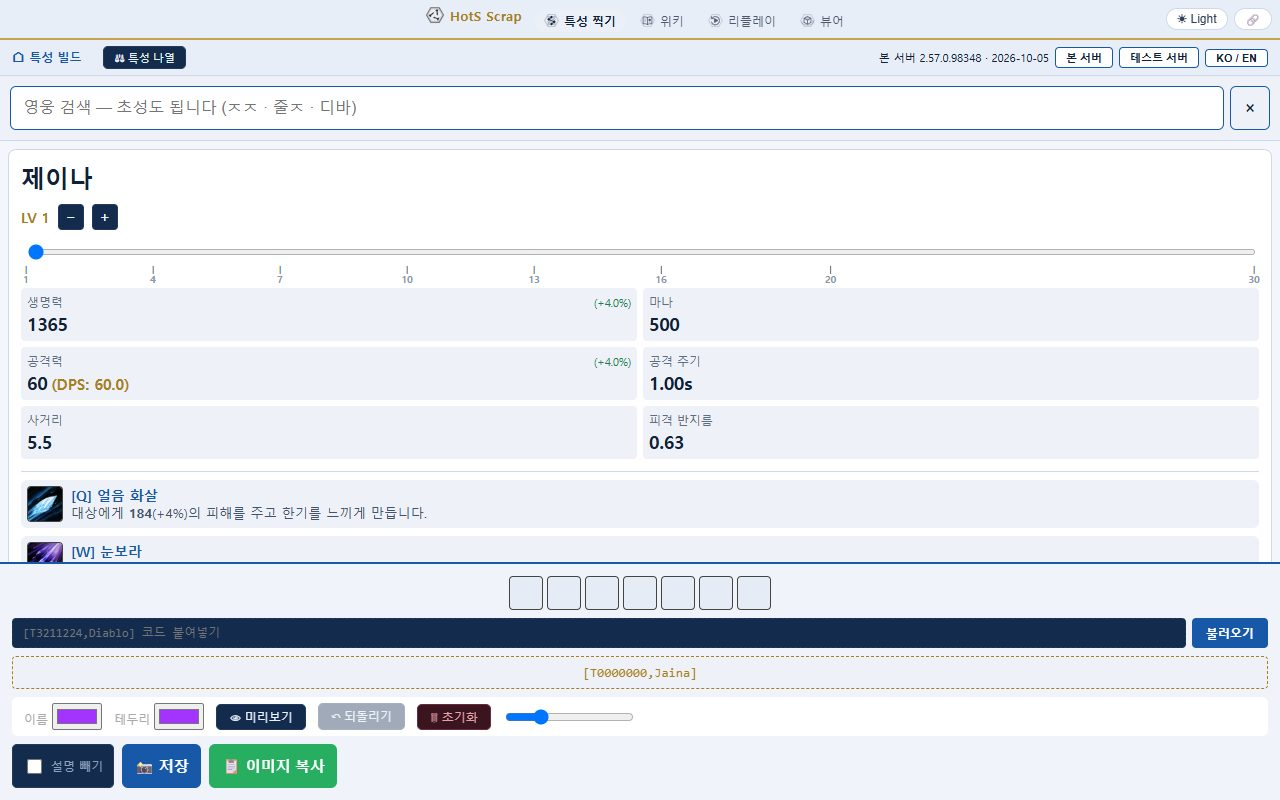
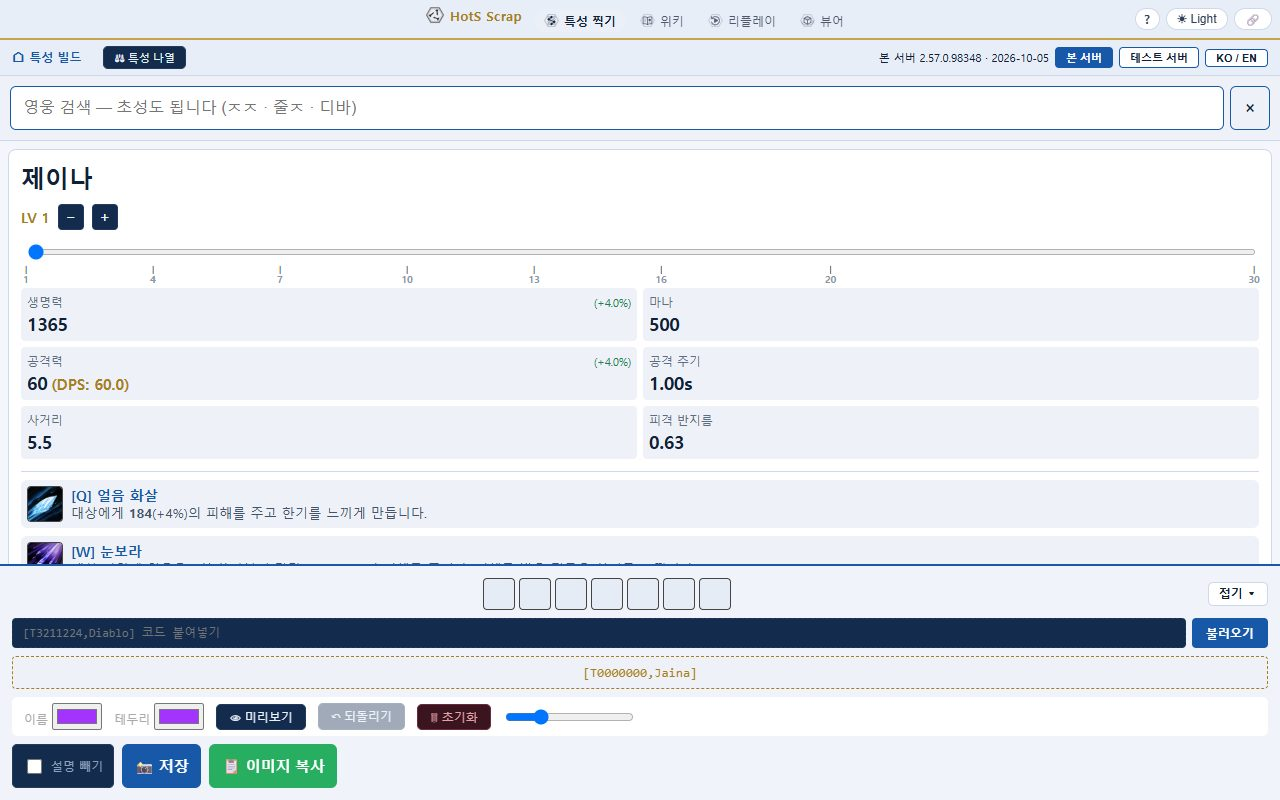
빌드: 폰에서 위·아래 칸 얇게 — 아래 칸 접기/펴기, 위 단추줄 한 줄, 전역 바 알약 작게
360×640 폰에서 특성 줄이 118px 만 보였다(글자 키운 폰은 0). 이제 434px.
- 아래 칸 접기/펴기: 접으면 고른 특성 줄 + ↶ 되돌리기 + 📸 저장만 남는다(254 → 58px).
  고른 상태는 builds.footerMin 에 기억, 고른 적이 없으면 화면 높이 30% 를 넘을 때 접힌 채 시작
- ← 뒤로가기 단추가 아래 칸 높이를 따라간다(전엔 '불러오기' 를 덮었다)
- 위 단추줄: 600px 이하에서 한 줄(137 → 49px), 판 번호 글은 숨기고 낡은 테스트 서버 경고만 남김
- 검색창 × 가 안 접히던 것(.search-row 의 display 가 hidden 을 이김) → 검색창·열기 단추가 같이 보이던 문제
- 밝은 테마에서 고른 서버 단추가 흰색이라 안 보이던 것
- 공통 전역 바(scrap.css): 손가락 기기에서 링크가 54px 세로 타원이던 것 → 누를 자리 44px 은 두고
  보이는 알약만 28px(::before). 바 66 → 50px, 12개 화면 가로 넘침 0
- 사용법 '특성 고르기' 에 접기/펴기 설명, 특성 찍기 사진 6장 다시 찍음

Changed region(s): [[0.0, 0.6875, 1.0, 0.75], [0.8125, 0.0625, 0.875, 0.0938]]

diff --git a/site/builds/index.html b/site/builds/index.html
@@ -205,18 +205,77 @@
 }
 /* 바닥 단추 줄이 통째로 넘치지 않게 — 가로로 미는 대신 줄을 바꾼다 */
 .btn-group { max-width:100%; }
+
+/* ── 아래 칸 접기/펴기 — 맨 윗줄만 남긴다 ── */
+#ft-top { display:flex; align-items:center; gap:6px; min-width:0; }
+#ft-top #selected-summary { flex:1; min-width:0; align-items:center; }
+/* 요약 칸은 자리가 모자라면 같이 줄어든다(접은 줄에 단추 셋이 같이 서야 해서). 32px 이 최대 */
+#selected-summary .summary-icon { flex:0 1 32px; min-width:0; width:auto; height:auto; max-width:32px; aspect-ratio:1/1; box-sizing:border-box; }
+#ft-mini { display:none; gap:6px; flex-shrink:0; }
+#footer.min #ft-mini { display:flex; }
+#footer.min > :not(#ft-top) { display:none !important; }   /* 코드 줄은 style 에 display:flex 가 박혀 있어 !important 가 있어야 숨는다 */
+#footer.min { padding-top:6px; padding-bottom:6px; overflow:visible; }
+#ft-toggle, .ft-mini-btn { flex-shrink:0; background:#132b4d; border:1px solid #233a5c; color:#eaf1fa;
+  border-radius:5px; padding:4px 10px; font-size:12px; line-height:1.2; cursor:pointer; white-space:nowrap; }
+.ft-mini-btn { min-width:36px; padding:4px 8px; font-size:15px; }
+#ft-toggle { font-weight:bold; }
+:root[data-theme="light"] #ft-toggle, :root[data-theme="light"] .ft-mini-btn { background:#ffffff; border-color:#cdd9ea; color:#122036; }
+@media (any-pointer:coarse) {
+  #ft-toggle, .ft-mini-btn { min-height:44px; }
+}
+
+/* 검색창 접기 — .search-row 의 display:flex 가 hidden 속성을 이겨서 × 를 눌러도 안 접히고
+   '영웅 검색 열기' 단추만 하나 더 생겼다(둘이 같이 보였다) */
+.search-row[hidden], .search-show[hidden] { display:none !important; }
+
+/* 밝은 테마에서 고른 서버 단추가 안 보이던 것 — 밝은 .lang-btn(흰 바탕)이 .ch-btn.on 을 이겼다 */
+:root[data-theme="light"] #top-bar .ch-btn.on { background:#1758a8; border-color:#1758a8; color:#fff; }
+
+/* ── 폰: 위쪽을 얇게 ─────────────────────────────────────────────────
+   좁아질수록 위 단추줄이 3줄로 접혀(137px) 44px 상자가 줄줄이 튀어나왔다. 한 줄로 모은다.
+   - 판 번호·날짜 글은 단추의 title 에 이미 있어 숨긴다(테스트 서버 자료가 낡았다는 경고만 남긴다)
+   - '특성 나열' → '나열', '테스트 서버' → '테스트'
+   - 손가락 기기: 단추 자체는 44px 로 두고 **보이는 알약만 작게** 그린다(::before).
+     알약이 단추 안쪽에 있으니 이웃 단추를 덮지 않는다(::after 띠로 넓히다 생긴 사고와 반대 방향). */
+@media (max-width:600px) {
+  #top-bar { flex-wrap:nowrap; padding:2px 8px; gap:6px; }
+  #top-bar .tb-left { gap:4px !important; flex-shrink:0; }
+  #top-bar .tb-right { flex-wrap:nowrap !important; gap:4px !important; min-width:0; }
+  #top-bar .tb-right:has(#ch-note.stale) { flex-wrap:wrap !important; }
+  #top-bar .tb-list { margin-left:0 !important; }
+  #top-bar .tb-lg { display:none; }
+  #ch-note:not(.stale) { display:none; }
+  #ch-note.stale { flex-basis:100%; order:9; text-align:right; font-size:10px !important; white-space:normal !important; }
+  #top-bar .lang-btn, #top-bar .tb-list { font-size:11px !important; padding:3px 9px !important; }
+  #top-bar .lang-btn { border-color:#233a5c; }
+  /* 검색창도 한 호흡 얇게(글자 16px 은 그대로 — 그보다 작으면 아이폰이 화면을 확대한다) */
+  #header { padding:6px 8px; }
+  .search-box { padding:8px 10px; }
+  .search-show { padding:5px; }
+}
+@media (max-width:600px) and (any-pointer:coarse) {
+  #top-bar .lang-btn, #top-bar .tb-list { --tb-bg:#132b4d; --tb-bd:#233a5c; position:relative; z-index:0;
+    min-height:44px; display:inline-flex; align-items:center; background:transparent !important; border-color:transparent !important; }
+  #top-bar .ch-btn.on { --tb-bg:#1758a8; --tb-bd:#1758a8; }
+  :root[data-theme="light"] #top-bar .lang-btn, :root[data-theme="light"] #top-bar .tb-list { --tb-bg:#ffffff; --tb-bd:#cdd9ea; }
+  :root[data-theme="light"] #top-bar .tb-list { color:#122036 !important; }
+  :root[data-theme="light"] #top-bar .ch-btn.on { --tb-bg:#1758a8; --tb-bd:#1758a8; }
+  #top-bar .lang-btn::before, #top-bar .tb-list::before { content:""; position:absolute; left:0; right:0; top:9px; bottom:9px;
+    z-index:-1; border-radius:5px; background:var(--tb-bg); border:1px solid var(--tb-bd); }
+  #top-bar .tb-home { min-height:44px; display:inline-flex; align-items:center; }
+}
 </style>
 </head>
 <body data-scrap-back-bottom="190px">
     <div id="top-bar">
-        <span style="display:flex; align-items:center; gap:12px;">
-          <a href="./" title="빌드 홈으로" style="font-weight:bold; color:var(--p); font-size:12px; text-decoration:none;">⌂ 특성 빌드</a>
-        <button type="button" onclick="openTierList()" style="margin-left:10px; background:#132b4d; border:1px solid #233a5c; color:#eaf1fa; border-radius:5px; padding:3px 10px; cursor:pointer; font-size:11px;">⚖ 특성 나열</button>
+        <span class="tb-left" style="display:flex; align-items:center; gap:12px;">
+          <a href="./" class="tb-home" title="빌드 홈으로" style="font-weight:bold; color:var(--p); font-size:12px; text-decoration:none;">⌂ 특성 빌드</a>
+        <button type="button" class="tb-list" onclick="openTierList()" style="margin-left:10px; background:#132b4d; border:1px solid #233a5c; color:#eaf1fa; border-radius:5px; padding:3px 10px; cursor:pointer; font-size:11px;">⚖ <span class="tb-lg">특성 </span>나열</button>
         </span>
-        <span style="display:flex; align-items:center; gap:6px; flex-wrap:wrap; justify-content:flex-end;">
+        <span class="tb-right" style="display:flex; align-items:center; gap:6px; flex-wrap:wrap; justify-content:flex-end;">
           <span id="ch-note" style="font-size:11px; color:#8fa2bd;"></span>
           <button type="button" class="lang-btn ch-btn" id="ch-live" onclick="setChannel('live')" hidden>본 서버</button>
-          <button type="button" class="lang-btn ch-btn" id="ch-ptr" onclick="setChannel('ptr')" hidden>테스트 서버</button>
+          <button type="button" class="lang-btn ch-btn" id="ch-ptr" onclick="setChannel('ptr')" hidden>테스트<span class="tb-lg"> 서버</span></button>
           <button class="lang-btn" onclick="toggleLanguage()">KO / EN</button>
         </span>
     </div>
@@ -262,7 +321,15 @@
         <div id="main-content"></div>
     </div>
     <div id="footer">
-        <div id="selected-summary"></div>
+        <!-- 맨 윗줄은 접어도 남는다 — 고른 특성 요약 + (접혔을 때만) 되돌리기·저장 + 접기 단추 -->
+        <div id="ft-top">
+            <div id="selected-summary"></div>
+            <span id="ft-mini">
+                <button type="button" id="undo-mini" class="ft-mini-btn" onclick="undoTalent()" aria-label="되돌리기" title="되돌릴 것이 없습니다" disabled style="opacity:.4;">↶</button>
+                <button type="button" class="ft-mini-btn" onclick="takeScreenshot('save')" aria-label="이미지로 저장" title="이미지로 저장">📸</button>
+            </span>
+            <button type="button" id="ft-toggle" onclick="footerToggle()" aria-controls="footer" aria-expanded="true" title="아래 칸 접기 — 특성 목록을 넓게 봅니다">접기 ▾</button>
+        </div>
         <div style="display:flex; gap:6px;">
             <input type="text" id="code-load-input" placeholder="[T3211224,Diablo] 코드 붙여넣기"
                    title="게임 안에서 복사한 특성 코드입니다 — 특성 화면의 '빌드 복사' 로 얻은 [T…,영웅] 글을 그대로 붙여넣으면 그 빌드가 찍힙니다" style="flex:1; background:#132b4d; border:1px dashed #233a5c; color:#eaf1fa; border-radius:4px; padding:7px 10px; font-family:monospace; font-size:12px; outline:none;">
@@ -297,6 +364,52 @@
             <button class="footer-btn" style="background:#27ae60;" onclick="takeScreenshot('copy')">📋 이미지 복사</button>
         </div>
     </div>
+    <script>
+        /* ── 아래 칸 접기/펴기 ─────────────────────────────────────────────
+           폰에서는 아래 칸이 화면 절반(글자를 키운 폰은 그 이상)을 먹어 특성 줄이 안 보였다.
+           접으면 맨 윗줄(고른 특성 요약 · 되돌리기 · 저장)만 남는다.
+           - 한 번 고른 상태는 이 브라우저에 기억한다(builds.footerMin).
+           - 고른 적이 없으면 **아래 칸이 화면 높이의 30% 를 넘을 때** 접힌 채로 시작한다
+             (폰 세로·가로는 접힘, PC·태블릿은 펼침). 고르기 전에는 화면을 돌리면 다시 판단한다.
+           - 오른쪽 아래 ← 단추는 아래 칸 바로 위에 붙어 다닌다(높이가 바뀔 때마다 따라간다). */
+        (function () {
+            var KEY = 'builds.footerMin';
+            var ft = document.getElementById('footer'), tg = document.getElementById('ft-toggle');
+            function saved() { try { return localStorage.getItem(KEY); } catch (e) { return null; } }
+            function syncBack() {
+                var px = (ft.offsetHeight + 10) + 'px';
+                document.body.setAttribute('data-scrap-back-bottom', px);   // 밝기를 바꿔 다시 그릴 때도 이 값을 쓴다
+                var bk = document.getElementById('scrap-back');
+                if (bk) bk.style.bottom = px;
+            }
+            function apply(min) {
+                ft.classList.toggle('min', min);
+                tg.textContent = min ? '펴기 ▴' : '접기 ▾';
+                tg.title = min ? '아래 칸 펴기 — 코드·색·저장 옵션' : '아래 칸 접기 — 특성 목록을 넓게 봅니다';
+                tg.setAttribute('aria-expanded', min ? 'false' : 'true');
+                syncBack();   // 크기 감시(ResizeObserver)는 다음 그리기 때 돌아 늦을 수 있어 바로 맞춘다
+            }
+            function autoMin() {
+                ft.classList.remove('min');
+                return ft.offsetHeight > innerHeight * 0.3;
+            }
+            window.footerToggle = function () {
+                var min = !ft.classList.contains('min');
+                apply(min);
+                try { localStorage.setItem(KEY, min ? '1' : '0'); } catch (e) {}
+            };
+            var s = saved();
+            apply(s === null ? autoMin() : s === '1');
+            var rz = 0;
+            addEventListener('resize', function () {
+                if (saved() !== null) return;
+                cancelAnimationFrame(rz);
+                rz = requestAnimationFrame(function () { apply(autoMin()); });
+            });
+            if (window.ResizeObserver) new ResizeObserver(syncBack).observe(ft);
+            syncBack();
+        })();
+    </script>
     <script>
         /* 영웅 데이터는 파일로 따로 둔다(data/builds/). 한 번에 받는 양을 줄이려고
            고른 판(본 서버/테스트 서버)과 고른 언어 하나만 받는다. */
@@ -343,6 +456,7 @@
                 tag.textContent = CH_LABEL[currentChannel] + ' ' + m.version + ' · ' + m.date
                     + (stale ? ' (본 서버보다 오래된 빌드입니다. 새 테스트 서버 자료가 아직 없습니다)' : '');
                 tag.style.color = stale ? '#e8a13a' : '';
+                tag.classList.toggle('stale', stale);   // 폰에서는 판 번호 줄을 숨기지만 이 경고만은 보인다
             }
         }
 
@@ -560,14 +674,17 @@
             undoPaint();
         }
         function undoPaint() {
-            var b = document.getElementById('undo-btn');
-            if (!b) return;
             var n = undoStack.length;
-            b.disabled = !n;
-            b.style.opacity = n ? '1' : '.4';
-            b.style.cursor = n ? 'pointer' : 'default';
-            b.title = n ? ('바로 앞 상태로 되돌립니다 (남은 걸음 ' + n + ')')
-                        : '되돌릴 것이 없습니다';
+            // 되돌리기는 두 군데 — 펼친 아래 칸의 단추와, 접었을 때 남는 윗줄의 ↶
+            ['undo-btn', 'undo-mini'].forEach(function (id) {
+                var b = document.getElementById(id);
+                if (!b) return;
+                b.disabled = !n;
+                b.style.opacity = n ? '1' : '.4';
+                b.style.cursor = n ? 'pointer' : 'default';
+                b.title = n ? ('바로 앞 상태로 되돌립니다 (남은 걸음 ' + n + ')')
+                            : '되돌릴 것이 없습니다';
+            });
         }
         function undoTalent() {
             var st = undoStack.pop();

diff --git a/site/shared/scrap.css b/site/shared/scrap.css
@@ -56,7 +56,24 @@
   #scrap-bar a, #scrap-bar button, .scrap-tap {
     min-height:44px; display:inline-flex; align-items:center; justify-content:center;
   }
+  /* 전역 바는 **누를 자리만 44px, 보이는 알약은 28px**.
+     링크는 content-box 라 44px 에 안쪽 여백이 더해져 54px 짜리 세로로 길쭉한 타원이 됐고
+     (? · GitHub · 고른 앱 아이콘), 바도 66px 로 두꺼워졌다. border-box 로 44px 에 맞추고,
+     테두리·바탕은 단추 **안쪽**의 ::before 에 그린다(단추 밖으로 넘치지 않으니 이웃을 덮지 않는다). */
+  html #scrap-bar { padding-top:2px; padding-bottom:2px; }   /* html 을 붙인 건 아래 좁은 화면 규칙(padding:5px 8px)보다 앞서려고 */
+  #scrap-bar a, #scrap-bar button { box-sizing:border-box; }
+  #scrap-tools > a, #scrap-tools > button { position:relative; z-index:0; min-width:32px;
+    background:transparent !important; border-color:transparent !important; }
+  #scrap-tools > a::before, #scrap-tools > button::before { content:""; position:absolute; left:0; right:0; top:8px; bottom:8px;
+    z-index:-1; border-radius:99px; background:var(--scrap-tool-bg); border:1px solid var(--scrap-tool-line); }
+  #scrap-bar .scrap-nav { position:relative; z-index:0; }
+  html #scrap-bar .scrap-nav.on, html #scrap-bar .scrap-nav:hover { background:transparent; }   /* html: 아래쪽 .on 규칙보다 앞서려고 */
+  #scrap-bar .scrap-nav.on::before { content:""; position:absolute; left:0; right:0; top:8px; bottom:8px;
+    z-index:-1; border-radius:99px; background:rgba(255,255,255,.14); }
 }
+/* 위 알약 색 — scrap.js 의 paint() 가 넓은 화면에 직접 칠하는 색과 같다 */
+:root { --scrap-tool-bg:#ffffff; --scrap-tool-line:#cdd9ea; }
+:root[data-theme="dark"] { --scrap-tool-bg:#132b4d; --scrap-tool-line:#233a5c; }
 
 /* ── 어디서든 네 갈래 ──────────────────────────────────────────────
    전역 바 안에서 브랜드 바로 옆에 선다. 바가 좁아지면 글자만 남기고

diff --git a/site/guide/index.html b/site/guide/index.html
@@ -204,6 +204,7 @@
       <li><b>보조 특성</b>(점선 테) — 메인을 찍은 줄에서 다른 아이콘을 누르면 <b>상황에 따라 바꿔 찍을 대안</b>으로 붙습니다. 줄마다 하나, 다른 것을 누르면 바뀝니다.</li>
       <li><b>레벨 숫자</b> — 그 레벨 특성을 설명과 함께 한눈에 펼쳐 봅니다(아래 '특성 나열').</li>
       <li><b>고른 특성</b> — 찍은 메인 특성이 레벨 차례로 모입니다.</li>
+      <li><b>접기 / 펴기</b> — 아래 칸을 접으면 이 줄(고른 특성 · ↶ 되돌리기 · 📸 저장)만 남아 특성 목록이 넓게 보입니다. 폰처럼 화면이 낮으면 접힌 채로 시작하고, 한 번 고르면 기억합니다.</li>
       <li><b>코드 불러오기</b> — 게임이나 다른 사람에게 받은 <code>[T3211224,Diablo]</code> 같은 코드를 붙여 넣고 <b>불러오기</b>를 누르면 그대로 찍힙니다.</li>
       <li><b>빌드 코드</b> — 지금 찍은 빌드의 게임 속 특성 코드입니다. 누르면 복사되고, 게임 채팅창에 붙여 넣으면 그 빌드를 나눌 수 있습니다.</li>
     </ol>

diff --git a/tools/guide_shots.py b/tools/guide_shots.py
@@ -110,7 +110,7 @@ SHOTS = [
     dict(id="b-stats", url="builds/?ch=live&hero=Jaina", do=[scroll_inner_top],
          marks=[["text=LV 1", "#level-slider"], "#stat-grid"]),
     dict(id="b-talent", url="builds/?ch=live&hero=Jaina", do=[builds_pick, scroll_into(".lv-list-btn", "start", -8)],
-         marks=[".t-row-1 >> nth=0", ".t-row-1 >> nth=2", ".lv-list-btn >> nth=0", "#selected-summary",
+         marks=[".t-row-1 >> nth=0", ".t-row-1 >> nth=2", ".lv-list-btn >> nth=0", "#selected-summary", "#ft-toggle",
                 ["#code-load-input", "button >> text=불러오기"], "#build-code-box"]),
     dict(id="b-save", url="builds/?ch=live&hero=Jaina", do=[builds_pick],
          clip=("#build-code-box", 220, "up"),
@@ -238,7 +238,8 @@ def shoot(pw, spec):
     size = spec.get("size", (W, H))
     br = pw.chromium.launch(channel="chrome", args=["--host-resolver-rules=MAP scrap.test 127.0.0.1"])
     ctx = br.new_context(viewport={"width": size[0], "height": size[1]}, color_scheme="light", locale="ko-KR")
-    ctx.add_init_script("try{localStorage.setItem('scrap.theme','light')}catch(e){};"
+    # 빌드의 아래 칸은 화면이 낮으면 접힌 채로 시작한다 — 사진은 늘 펼친 상태로 찍는다
+    ctx.add_init_script("try{localStorage.setItem('scrap.theme','light');localStorage.setItem('builds.footerMin','0')}catch(e){};"
                         "document.addEventListener('DOMContentLoaded',()=>{const s=document.createElement('style');"
                         f"s.textContent={json.dumps(HIDE_CSS)};document.head.appendChild(s)}});")
     pg = ctx.new_page()

diff --git a/CLAUDE.md b/CLAUDE.md
@@ -28,6 +28,12 @@
     그대로 남아* 있기도 하다(잘아타스 '어둠의 심장 의식' ← 레가르 '속박의 토템').
     `stale_keys()` 가 걸러 낸다 — **이름이 비었는데 설명이 다른 자리와 글자까지 같으면** 찌꺼기로 본다.
     이 판정을 느슨하게 바꾸지 마라(2.57.0.98126 기준 오탐 0, 정탐 1).
+  - **폰에서 위·아래가 화면을 먹지 않게** — 360×640 에서 특성 줄이 118px 만 보였다(글자 키운 폰은 0).
+    아래 칸은 **접기/펴기**(`#ft-toggle`, `builds.footerMin`): 접으면 고른 특성 줄 + ↶ + 📸 만 남는다.
+    고른 적이 없으면 아래 칸이 화면 높이 30% 를 넘을 때 접힌 채로 시작한다(폰 접힘 · PC·태블릿 펼침).
+    위 단추줄은 600px 이하에서 한 줄(판 번호 글은 숨기고 낡은 테스트 서버 경고만 남긴다).
+    ← 단추는 아래 칸 높이를 따라간다(`data-scrap-back-bottom` 을 그때그때 고쳐 쓴다).
+    사용법 사진은 `builds.footerMin=0` 으로 늘 펼쳐 찍는다(`guide_shots.py`).
 - `site/wiki/` **위키** — 허브 '위키' 칸과 전역 바 '위키' 가 여기로 온다. 영웅·전장·시스템·통계·용어·패치 여섯 갈래.
   **만드는 곳은 저장소 밖** `../hots_extract`(`update_wiki.py` → `report/wiki/`)이고, `python ../hots_extract/wiki_site.py` 가
   사이트 판으로 감싸(`<html data-site>` + `scrap.js` + 뒤로가기 130px) 이 폴더에 **통째로 덮어쓴다** — 여기서 직접 고치지 마라.
@@ -172,6 +178,9 @@
   `::after` 띠로 넓히지 마라 — 단추가 줄바꿈되면 윗줄 띠가 아랫줄 단추를 덮어 **엉뚱한 것이 눌린다**
   (빌드메이커에서 '본 서버' 아래를 누르면 KO/EN 이 실행됐다).
   `pointer:coarse` 말고 `any-pointer:coarse` 를 쓴다(트랙패드 붙인 태블릿이 빠져나간다).
+  - 테두리·바탕이 있는 단추에 `min-height:44px` 를 주면 **보이는 상자까지 44px** 로 커져 툭 튀어나온다
+    (링크는 content-box 라 여백이 더해져 54px 짜리 세로 타원이 됐다). 단추는 44px 로 두고 **보이는 알약은
+    단추 안쪽 `::before` 에 작게** 그린다(전역 바 `scrap.css`, 빌드 위 단추줄). 안쪽이라 이웃을 덮지 않는다.
 - **칸이 많은 표는 줄이지 말고 밀어 보게 한다.** 달력은 700px 이하에서 `.cal-scroll` 로 감싸
   칸 34px 을 지키고 연도 칸을 `position:sticky` 로 왼쪽에 붙인다(칸을 욱여넣으면 22px·글자 9px 이 된다).
 - **경계 바로 위가 더 좁아지지 않는지** 확인해라. 600px 경계였을 때 601px 에서 칸이 34→24px 로 되레 줄었다.
